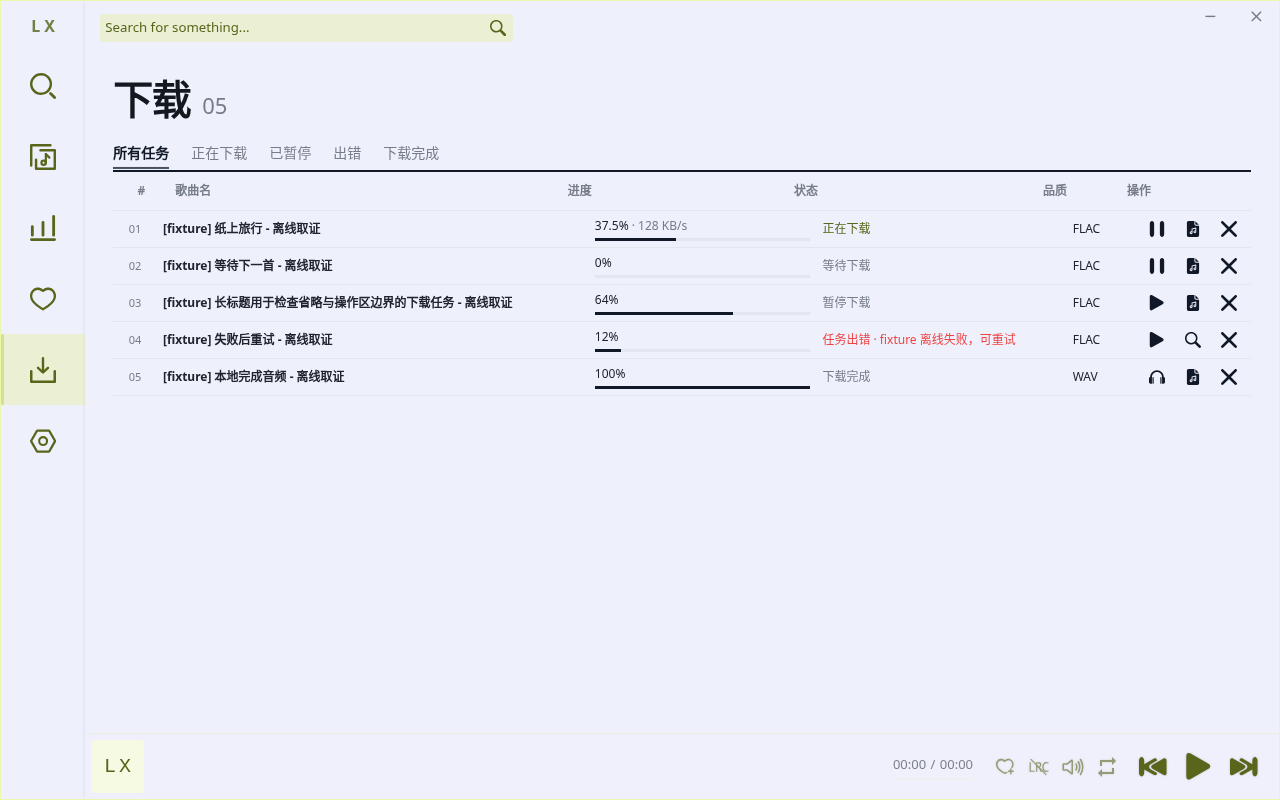
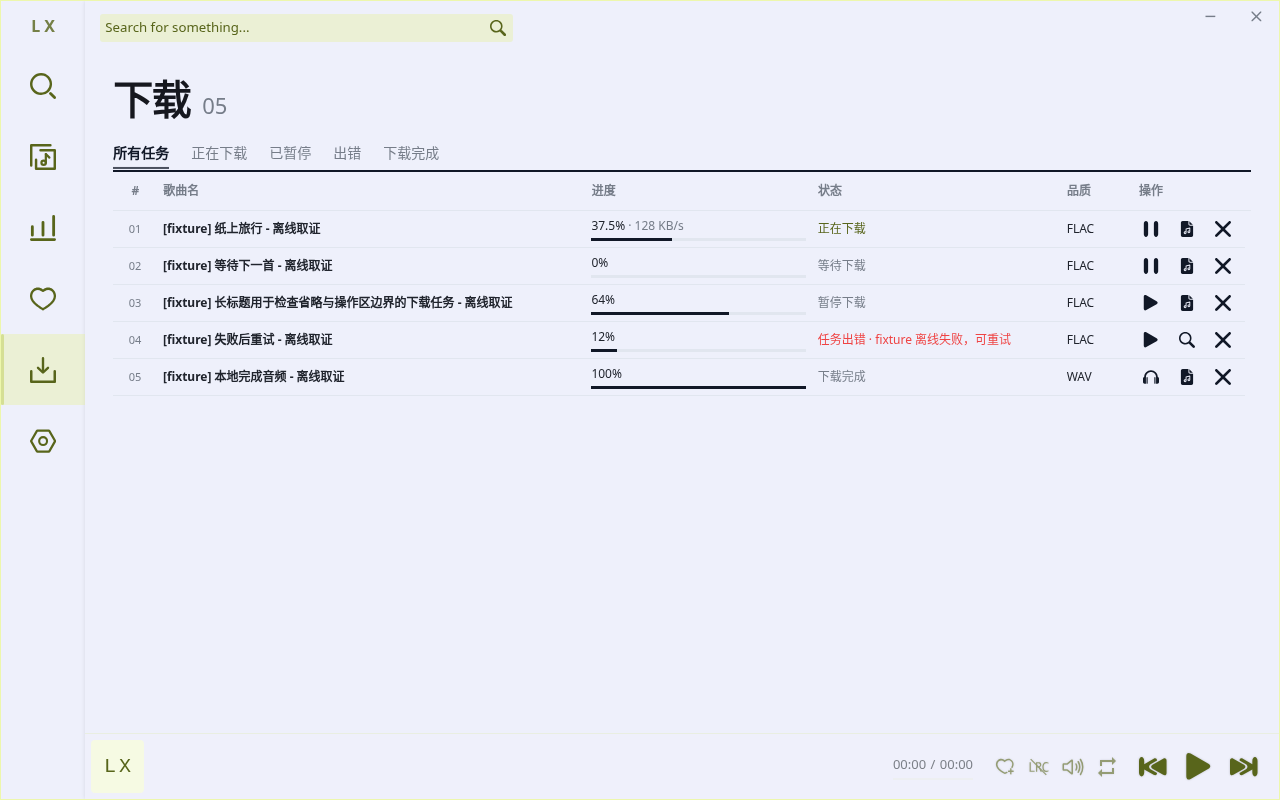
归档修复后双尺寸列对齐与完整 Electron 回归证据

diff --git a/docs/screenshots/m3b1/README.md b/docs/screenshots/m3b1/README.md
@@ -10,4 +10,8 @@
 
 数据全部明确标为 fixture；下载传输与外部 shell 被替代，其他 worker 方法委托原实现。生成的 20 秒静音 WAV 经原生 Audio 播放，只证明软件管线。真实音乐源下载/网络重试、系统文件管理器/浏览器实际打开、扬声器及 Windows/macOS 体验尚未验证。
 
-[evidence.json](evidence.json) 记录干净实现提交、UTC、运行版本、完整构建/harness/PNG SHA256、七门结果与行为证据摘要。最终 PR head CI 会重新构建及运行完整 themes35/media3/window3/downloads6；完整 manifest/日志在 90 天 CI artifact，关键 PNG 永久入库。父 M3b 尚未完成，本 PR 不合并。
+[evidence.json](evidence.json) 记录干净实现提交、UTC、运行版本、完整构建/harness/PNG SHA256、七门结果与行为证据摘要。最终 PR head CI 会重新构建及运行完整 themes35/media3/window3/native-drag1/downloads6；完整 manifest/日志在 90 天 CI artifact，关键 PNG 永久入库。父 M3b 尚未完成，本 PR 不合并。
+
+PR #17 列对齐修复：下载页表头采用固定表格布局和 border-box，与数据行使用相同 rem／百分比列宽；列表稳定预留滚动槽，与全局表头的预留宽度一致。保持原 2.3 × 根字号行高与所有动作。
+
+真实 Electron 六列表头／每个可见行左右边界检查（容差 1 CSS px）已接入 CI，并要求两种尺寸都具备记录；表头文字中心也须位于对应数据列。1280×800／16px 最大边界差 0px，1024×700／20px 为 0.5px，原始坐标见 [16px](column-alignment-1280x800-font16.json) 与 [20px](column-alignment-1024x700-font20.json)。旧样式在同一检查下退出 1（序号／品质／操作表头各宽 12px），失败日志保留本地 `_goal/logs/columns-negative.log`。
